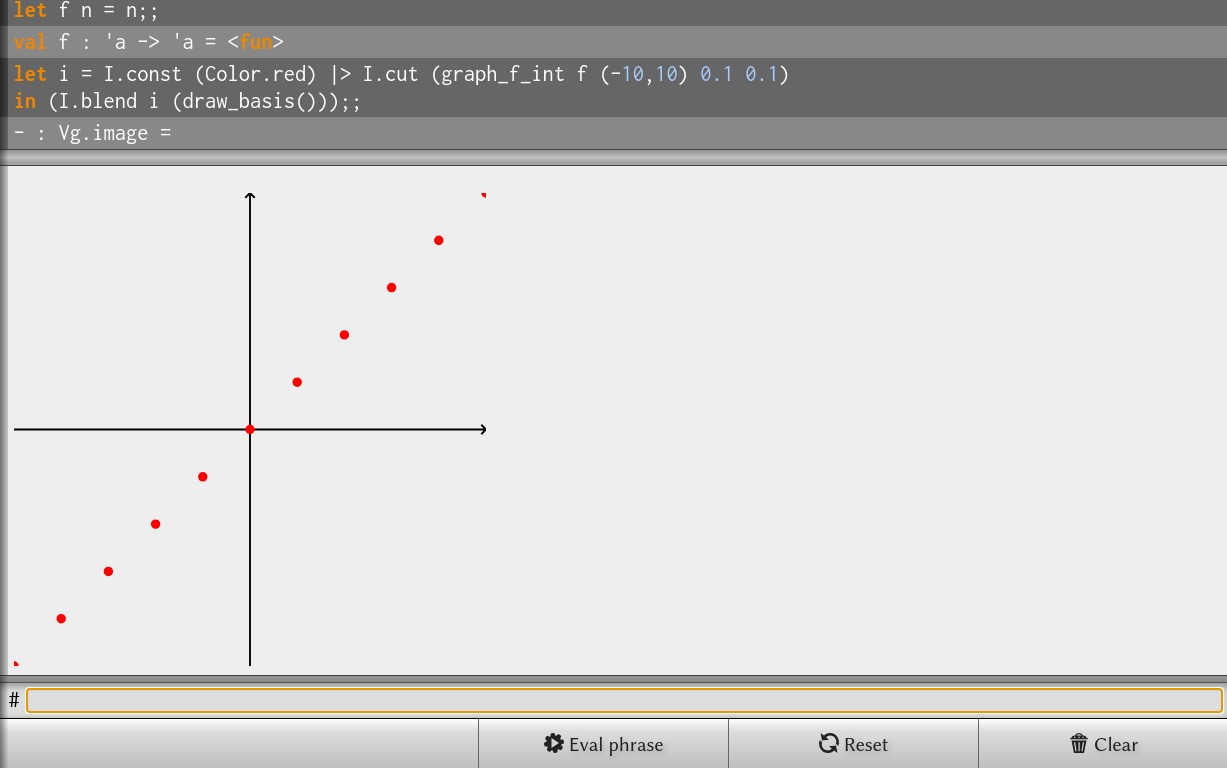
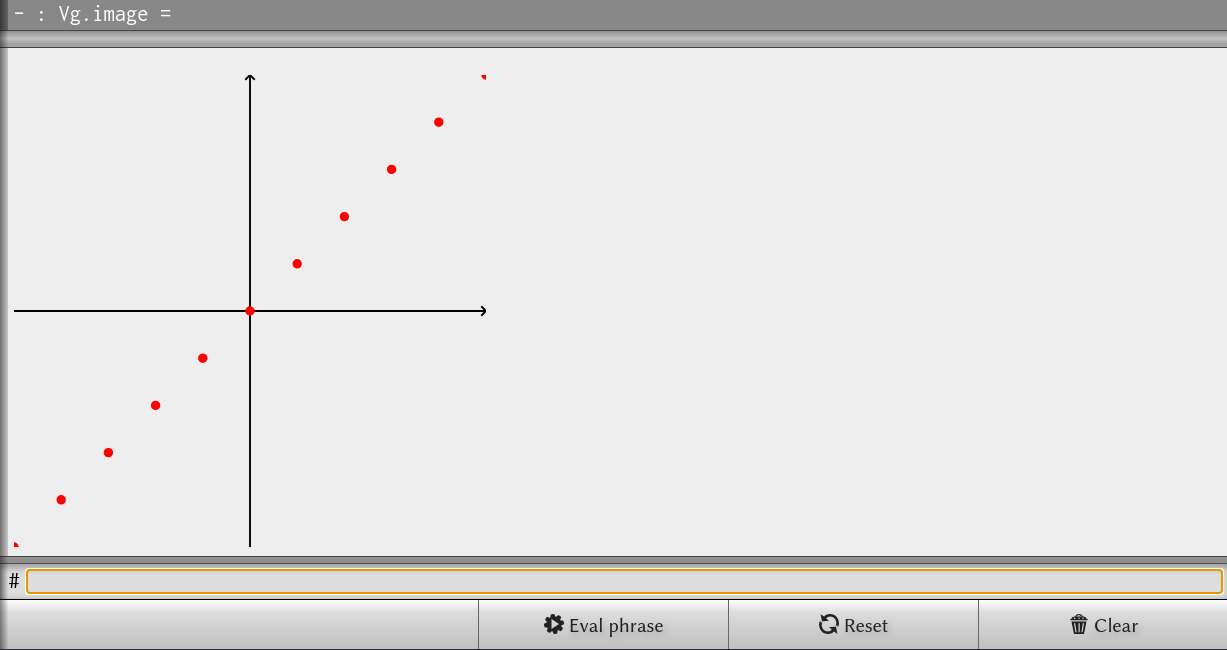
scale to tuple

diff --git a/samples/graphs_en/descr.md b/samples/graphs_en/descr.md
@@ -32,17 +32,19 @@ to place your function's graph on top of this basis.
 **Question 2** : We'll start by writing a function `graph_f_int` to plot graphs of funtion from integers to integers.
 
 ```OCaml
-  val graph_f_int : (int -> int) -> (int*int) -> float -> float -> Vg.path
+  val graph_f_int : (int -> int) -> (int*int) -> (float*float) -> Vg.path
 ```
 
-Which, given a function, a tuple of integers that represents the bounds of the values we'll test and two floating values that represent the abscissa and ordinate scalings to make the graphs fit in the canvas, returns a path representing the function.
+Which, given a function, a tuple of integers that represents the bounds of the values we'll test and a tuple of floating values that represent the abscissa and ordinate scalings to make the graphs fit in the canvas, returns a path representing the function.
 
 For example :
 
 ```OCaml
   let f n = n;;
-  let i = I.const (Color.red) |> I.cut (graph_f_int f (-10,10) 0.1 0.1) 
-            in (I.blend i (Solution.draw_basis()));;
+  let bounds = (-10,10);;
+  let scale = (0.1,0.1);;
+  let i = I.const (Color.red) |> I.cut (graph_f_int f bounds scale) 
+            in (I.blend i (draw_basis()));;
 ```
 
 <div>
@@ -64,15 +66,18 @@ which add a small dot at position (x,y) in an existing path.
 **Question 3** : We'll try now to implement a function `graph_f_int_hist` to plot an histogram. 
 
 ```OCaml
-  val graph_f_int_hist : (int -> int) -> (int -> int) -> float -> float -> float -> Vg.path
+  val graph_f_int_hist : (int -> int) -> (int*int) -> (float*float) -> float -> Vg.path
 ```
 
 Which given the same arguments as the previous function plus a float representing the width of the segments returns a path representing the histogram.
 
 ```OCaml
   let f n = n;;
-  let i1 = (I.const Color.black) |> (I.cut (graph_f_int f (-10,10) 0.1 0.1)) in
-  let i2 = (I.const Color.red) |> (I.cut (graph_f_int_hist f (-10,10) 0.1 0.1 0.05)) in
+  let bounds = (-10,10);;
+  let scale = (0.1,0.1);;
+  let width = 0.05;;
+  let i1 = (I.const Color.black) |> (I.cut (graph_f_int f bounds scale)) in
+  let i2 = (I.const Color.red) |> (I.cut (graph_f_int_hist f bounds scale width)) in
     (I.blend i2 (I.blend i1 (draw_basis())));;
 ```
 
@@ -91,8 +96,50 @@ Which given the same arguments as the previous function plus a float representin
 Write a function 
 
 ```OCaml
-  val graph_f_float : (float -> float) -> float -> float -> float -> float -> Vg.path
+  val graph_f_float : (float -> float) -> (float*float) -> (float*float) -> float -> Vg.path
 ```
 
-Which, given a function, a float that represents the bound of the maximum value we'll test and two floating values that represent the abscissa and ordinate scalings to make the graphs fit in the canvas and a float representing the space between two points, returns a path representing the function.
+Which, given a function, a tuple of floats representing the bound of the maximum value we'll test, another tuple of of floating values representing the abscissa and ordinate scalings to make the graphs fit in the canvas and a float representing the space between two points, returns a path representing the function.
 If a point is undefind it should not be ploted.
+
+```OCaml
+  let f x = sqrt x;;
+  let bounds = (-10.,10.);;
+  let scale = (0.1,0.1);;
+  let space = 0.001;;
+  let i = I.const (Color.red) |> I.cut (graph_f_float f bounds scale space) 
+            in (I.blend i (draw_basis()));;
+```
+
+<div>
+  <img src="/icons/images/exercices/graphs/graph_f_float.png" 
+    alt="test graph_f_int_hist" 
+    width="768" 
+    height="512"
+  />
+</div>
+
+
+**Question 5** : Write a function returning the path to plot a function's integral given the same arguments as for the previous question plus a float representing the width of the segments.
+
+```OCaml
+  val graph_integral : (float -> float) -> (float*float) -> (float*float) -> float -> float -> Vg.path
+```
+
+```OCaml
+  let f x = sqrt x;;
+  let bounds = (-10.,10.);;
+  let scale = (0.1,0.1);;
+  let space = 0.001;;
+  let width = 0.05;;
+  let i = I.const (Color.red) |> I.cut (graph_integral f bounds scale space) 
+            in (I.blend i (draw_basis()));;
+```
+
+<div>
+  <img src="/icons/images/exercices/graphs/graph_integral.png" 
+    alt="test graph_f_int_hist" 
+    width="768" 
+    height="512"
+  />
+</div>
